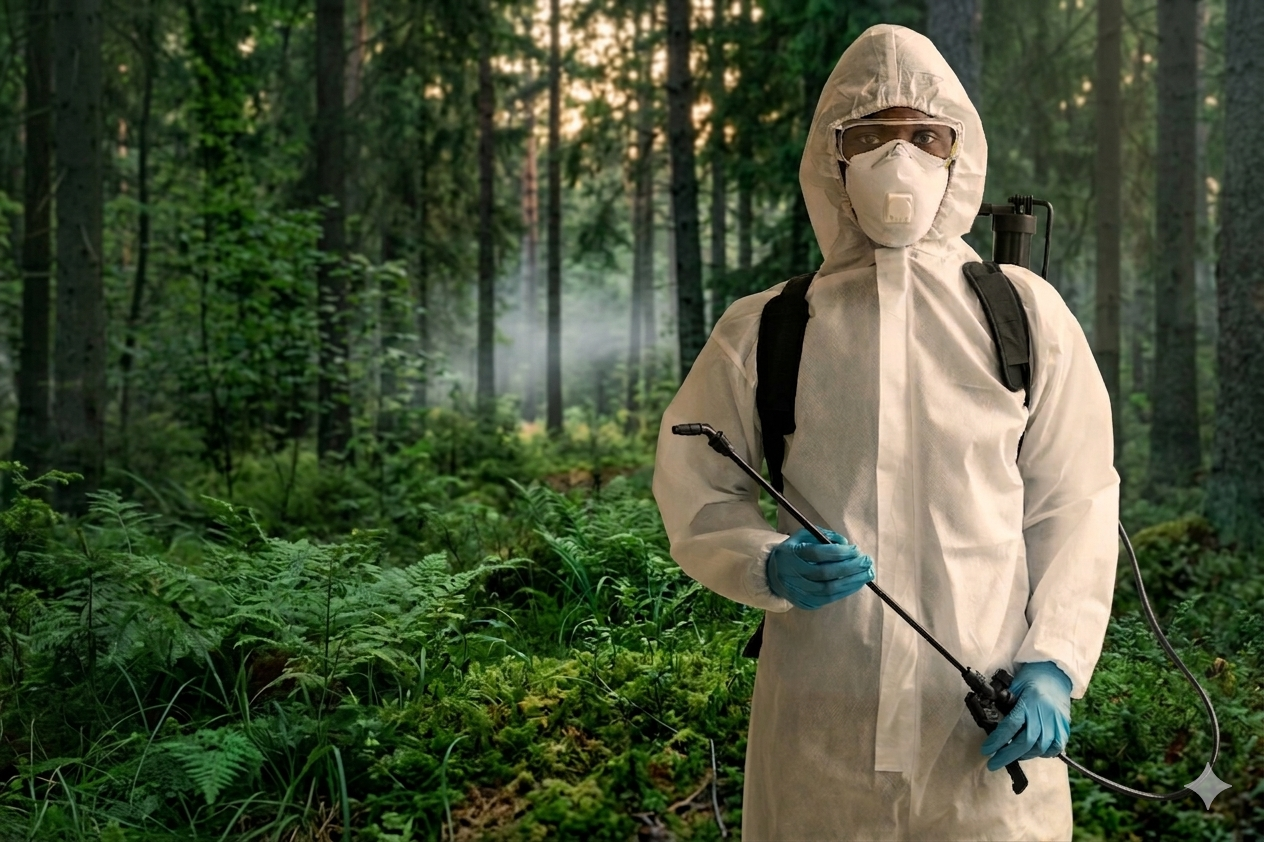
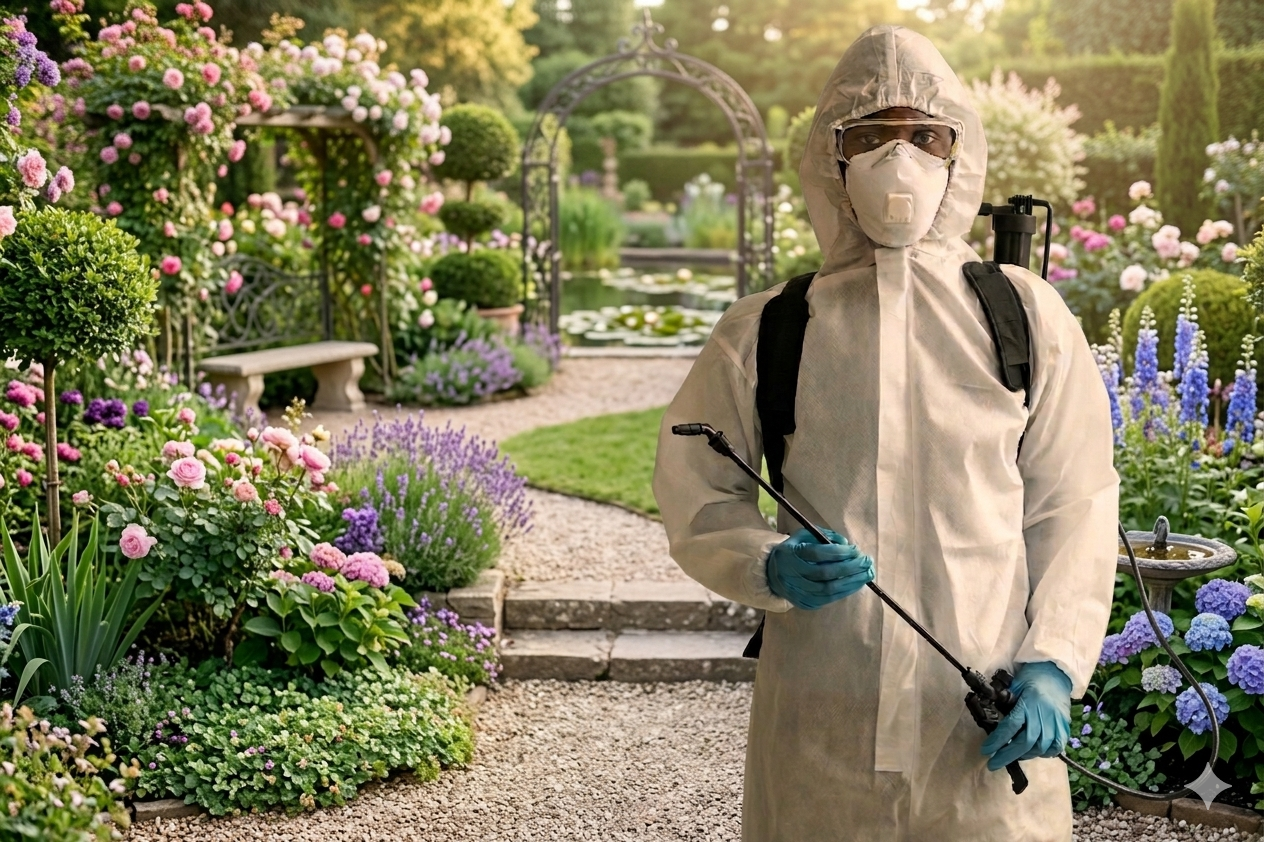
cards unificados,imagens alteradas

diff --git a/client/src/pages/national-accounts/Solutions.tsx b/client/src/pages/national-accounts/Solutions.tsx
@@ -11,9 +11,9 @@ const data: ServicePageData = {
   breadcrumbLabel: "Soluções nacionais",
   breadcrumbParent: { label: "Contas nacionais", href: "/national-accounts" },
   heroTitle: "Soluções nacionais de\ncontrole de pragas",
-  heroSubtitle: "Uma gama completa de serviços disponíveis em todas as regiões de Angola através do programa de Contas Nacionais. Desinfestação, limpeza, recolha de resíduos, fornecimento de água e jardinagem — tudo coordenado centralmente.",
+  heroSubtitle: "Uma gama completa de serviços disponíveis em todas as regiões de Angola através do programa de Contas Nacionais. Desinfestação, limpeza, recolha de resíduos, tratamento de água e jardinagem — tudo coordenado centralmente.",
   introText: "O programa de Contas Nacionais da Bioprev disponibiliza todos os nossos serviços de forma integrada e coordenada em todas as suas localizações. Cada serviço é prestado por equipas locais especializadas, com supervisão centralizada do gestor de conta.",
-  introSubtext: "Desde a desinfestação e controle de pragas até à limpeza profissional, recolha de resíduos, fornecimento de água e jardinagem — oferecemos uma solução completa que cobre todas as necessidades de higiene e manutenção das suas instalações em Luanda, Benguela, Huambo e outras regiões de Angola.",
+  introSubtext: "Desde a desinfestação e controle de pragas até à limpeza profissional, recolha de resíduos, tratamento de água e jardinagem — oferecemos uma solução completa que cobre todas as necessidades de higiene e manutenção das suas instalações em Luanda, Benguela, Huambo e outras regiões de Angola.",
   sectionTitle: "Todos os serviços num único programa",
   sectionText: "As soluções nacionais da Bioprev integram todos os nossos serviços num programa coerente e coordenado, eliminando a necessidade de gerir múltiplos fornecedores e contratos para diferentes necessidades de higiene e manutenção.",
   serviceCards: [
@@ -25,7 +25,7 @@ const data: ServicePageData = {
     },
     {
       title: "Limpeza, resíduos e manutenção",
-      description: "Limpeza industrial e doméstica, recolha de resíduos, fornecimento de água e jardinagem — serviços complementares que garantem a higiene e apresentação de todas as suas instalações.",
+      description: "Limpeza industrial e doméstica, recolha de resíduos, tratamento de água e jardinagem — serviços complementares que garantem a higiene e apresentação de todas as suas instalações.",
       image: "https://images.unsplash.com/photo-1581578731522-745505146317?auto=format&fit=crop&q=75&w=800",
       imageAlt: "Serviços complementares"
     }
@@ -33,11 +33,10 @@ const data: ServicePageData = {
   detailsTitle: "Serviços disponíveis no programa",
   detailsSubtitle: "Todos os serviços da Bioprev estão disponíveis no programa de Contas Nacionais, permitindo que a sua organização beneficie de uma solução integrada para todas as necessidades.",
   details: [
-    { icon: Shield, title: "Desinfestação geral", description: "Fumigação, pulverização, desratização, desbaratização e aplicação de gel em todas as suas instalações, com métodos selecionados de acordo com o tipo de praga e o ambiente de cada unidade." },
-    { icon: Bug, title: "Controle de gorgulhos e traças", description: "Proteção especializada para produtos armazenados — cereais, grãos, têxteis e arquivos — com monitorização por feromonas, tratamento térmico e relatórios estatísticos de controle por localização." },
+    { icon: Shield, title: "Desinfestação geral e controle de gorgulhos e traças", description: "Fumigação, pulverização, desratização, desbaratização e aplicação de gel em todas as instalações. Inclui protecção especializada para produtos armazenados — cereais, grãos, têxteis e arquivos — com monitorização por feromonas, tratamento térmico e relatórios estatísticos de controle por localização.", fullWidth: true },
     { icon: SprayCan, title: "Limpeza profissional", description: "Limpeza industrial, doméstica, hospitalar, de áreas alimentares, escritórios, varredura urbana e limpeza de tanques de combustível em todas as suas unidades." },
     { icon: Trash2, title: "Recolha de resíduos", description: "Recolha e gestão de resíduos urbanos, domésticos, pós-construção, hospitalares e industriais com frota própria e certificação de destino final para cada localização." },
-    { icon: Droplets, title: "fornecimento de água", description: "Fornecimento e fornecimento de água potável para as suas instalações, garantindo a qualidade e segurança do abastecimento em conformidade com as normas sanitárias." },
+    { icon: Droplets, title: "Tratamento de água", description: "Fornecimento e tratamento de água potável para as suas instalações, garantindo a qualidade e segurança do abastecimento em conformidade com as normas sanitárias." },
     { icon: Trees, title: "Jardinagem e paisagismo", description: "Manutenção de espaços verdes, jardins e áreas exteriores das suas instalações, contribuindo para um ambiente agradável e a imagem profissional da organização." },
     { icon: Zap, title: "Resposta de emergência", description: "Serviço de resposta rápida para emergências de pragas em qualquer localização, com mobilização coordenada de equipas e recursos das filiais mais próximas." },
     { icon: ClipboardCheck, title: "Auditorias e conformidade", description: "Auditorias regulares de higiene e controle de pragas em todas as instalações, com documentação e relatórios que suportam auditorias externas e requisitos de certificação." }

diff --git a/client/src/pages/services/ServicePageTemplate.tsx b/client/src/pages/services/ServicePageTemplate.tsx
@@ -19,6 +19,7 @@ export interface ServiceDetailItem {
   icon: LucideIcon;
   title: string;
   description: string;
+  fullWidth?: boolean;
 }
 
 export interface ServiceStep {
@@ -225,7 +226,7 @@ export default function ServicePageTemplate({ data }: { data: ServicePageData })
 
               <div ref={detailsGrid.ref} className="grid grid-cols-1 sm:grid-cols-2 gap-4 sm:gap-6 md:gap-8">
                 {data.details.map((detail, idx) => (
-                  <div key={idx} className={`bg-white border-t-4 border-[#f2c92f] shadow-sm p-5 sm:p-6 md:p-8 flex flex-col hover-lift sr-hidden stagger-${idx + 1} ${detailsGrid.isVisible ? 'sr-visible' : ''}`}>
+                  <div key={idx} className={`bg-white border-t-4 border-[#f2c92f] shadow-sm p-5 sm:p-6 md:p-8 flex flex-col hover-lift sr-hidden stagger-${idx + 1} ${detailsGrid.isVisible ? 'sr-visible' : ''} ${detail.fullWidth ? 'sm:col-span-2' : ''}`}>
                     <div className="flex items-center gap-3 sm:gap-4 mb-3 sm:mb-4">
                       <detail.icon className="w-6 h-6 sm:w-7 sm:h-7 md:w-8 md:h-8 text-[#007cc3] shrink-0" strokeWidth={1.5} />
                       <h3 className="text-base sm:text-lg md:text-xl font-medium text-[#333333]">{detail.title}</h3>